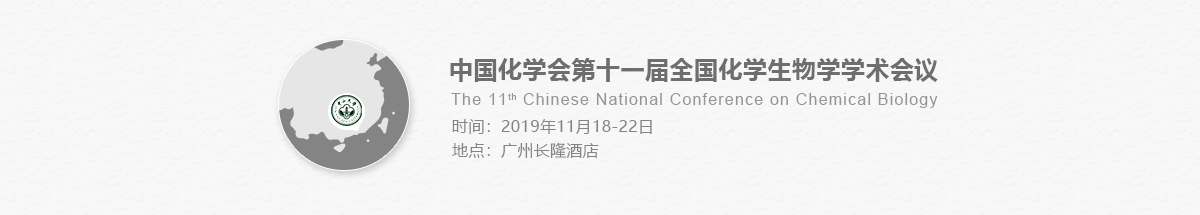
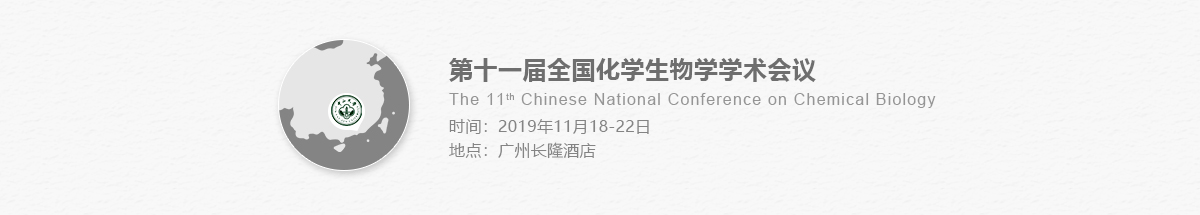
update title

diff --git a/html/index.html b/html/index.html
@@ -100,7 +100,7 @@
         <span class="content-title-en"> / Conference Introduction</span>
       </div>
       <div class="index-conference-detail">
-        <p>会议名称：中国化学会第十一届全国化学生物学学术会议</p>
+        <p>会议名称：第十一届全国化学生物学学术会议</p>
         <p>会议主题：生物世界的化学之旅</p>
         <p>会议地点：广州长隆酒店国际会展中心</p>
         <p>会议时间：2019年11月18-22日</p>

diff --git a/html/content.html b/html/content.html
@@ -5,7 +5,7 @@
   <meta charset="UTF-8">
   <meta name="viewport" content="width=device-width, initial-scale=1.0">
   <meta http-equiv="X-UA-Compatible" content="ie=edge">
-  <title>新闻通知</title>
+  <title>第十一届全国化学生物学学术会议第一轮通知</title>
   <link rel="stylesheet" href="../styles/normalize.css">
   <link rel="stylesheet" href="../styles/main.css">
   <link rel="shortcut icon" href="../images/favicon.ico" type="image/x-icon">
